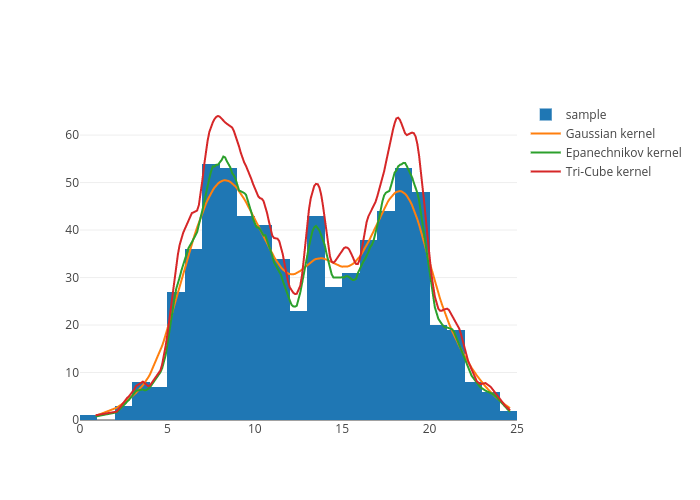
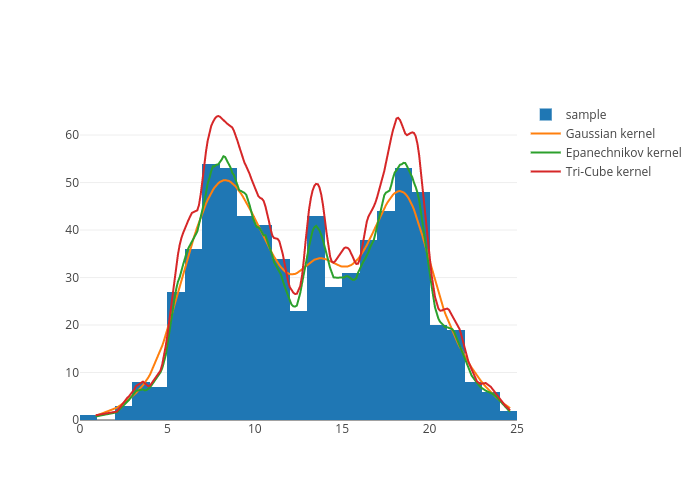
fixed subsumpling

diff --git a/Lab1/Tools/params_estimation.py b/Lab1/Tools/params_estimation.py
@@ -2,12 +2,22 @@ from .vis import *
 from .stats import *
 import math
 import copy
+import random
 
 
-def normal_PDF(m, s, x):
-
+def normal_distrib(m, s, x):
     return 1/(math.sqrt(2*math.pi)*s)*math.exp(-(x-m)**2/(2*s**2))
 
+
+def log_normal_distrib(m, s, x):
+    1/(x*s*math.sqrt(2*math.pi))*math.exp(-(math.log(x)-m)**2/(2*s**2))
+    return True
+
+
+def weibull_distrib():
+    return True
+
+#def
 
 class Estimator:
 
@@ -16,12 +26,18 @@ class Estimator:
         self.values = sample
 
     # normal distrib
-    def estimate_params(self, num_of_distrib):
+    def divide_subset(self, num_of_distrib):
 
         h = len(self.values)//num_of_distrib
         list_of_samples = []
-        for i in range(0,len(self.values),h):
-            list_of_samples += [self.values[i:i+h]]
+        sample = self.values
+        for i in range(num_of_distrib-1):
+            subs = random.sample(sample, h)
+            list_of_samples += [subs]
+            sample = [i for i in sample if i not in subs]
+        list_of_samples += [sample]
+        #for i in range(0,len(self.values),h):
+         #   list_of_samples += [self.values[i:i+h]]
 
         if len(list_of_samples) > num_of_distrib:
             m = list_of_samples[-1]
@@ -58,7 +74,7 @@ class Estimator:
                     find_max = -1000
                     ind = 0
                     for t in range(k):
-                        elem = normal_PDF(mean[t],standard_dev[t],sam)
+                        elem = normal_distrib(mean[t],standard_dev[t],sam)
                         if elem > find_max:
                             ind = t
                             find_max = elem
@@ -98,7 +114,10 @@ class Estimator:
             names += ['Gaussian'+str(i)]
 
 
-        plot_on_one_graph(self.values, list_of_samples, y_list, 'Samples_divided.html', names)
+        def params_validation():
+            return True
+
+        plot_on_one_graph(self.values, list_of_samples, y_list, 'Samples_divided.png', names)
 
 
 

diff --git a/Lab1/Tools/vis.py b/Lab1/Tools/vis.py
@@ -2,6 +2,7 @@
 
 """
 
+from plotly.plotly import image
 from plotly.offline import download_plotlyjs, plot
 import plotly.graph_objs as go
 import numpy as np
@@ -12,7 +13,8 @@ def plot_histogram(sample, name):
 
     x = np.array(sample)
     data = [go.Histogram(x=x)]
-    plot(data, filename=path_to_figure+name)
+    fig = go.Figure(data=data)
+    image.save_as(fig, filename=path_to_figure+name)
 
     return
 
@@ -25,7 +27,8 @@ def plot_kernel_density(sample, y, name):
         y=y
     )
     data = [trace]
-    plot(data, filename=path_to_figure+name)
+    fig = go.Figure(data=data)
+    image.save_as(fig, filename=path_to_figure+name)
 
 
 def plot_on_one_graph(sample,xx, y, name, kernels):
@@ -42,5 +45,16 @@ def plot_on_one_graph(sample,xx, y, name, kernels):
         )]
     data = [go.Histogram(x=x, name='sample')]
     data += trace_list
-    plot(data, filename=path_to_figure + name)
+    fig = go.Figure(data=data)
+    image.save_as(fig, filename=path_to_figure+name)
 
+def q_q_biplot(sample, theory):
+
+    #x = np.array(sample)
+
+   # trace = go.Scatter(
+    #    x=x,
+     #   y=y
+    #)
+
+    return True

diff --git a/Lab1/Tools/stats.py b/Lab1/Tools/stats.py
@@ -147,15 +147,15 @@ class Distribution:
             y_list1 += [r + sm1]
             y_list2 += [r + sm2]
             y_list3 += [r + sm3]
-        # self.show_kernel_density(y_list1, 'Gaussian_kernel.html')
-        # self.show_kernel_density(y_list2, 'Epanechnikov_kernel.html')
-        # self.show_kernel_density(y_list3, 'Tri-Cube_kernel.html')
+        self.show_kernel_density(y_list1, 'Gaussian_kernel.png')
+        self.show_kernel_density(y_list2, 'Epanechnikov_kernel.png')
+        self.show_kernel_density(y_list3, 'Tri-Cube_kernel.png')
         y_list = [y_list1] + [y_list2] + [y_list3]
         x_list = [self.values] + [self.values] + [self.values]
-        self.show_all(y_list, x_list, 'Combined.html',['Gaussian kernel','Epanechnikov kernel', 'Tri-Cube kernel'])
+        self.show_all(x_list, y_list, 'Combined.png',['Gaussian kernel','Epanechnikov kernel', 'Tri-Cube kernel'])
 
 
-    def show_histogram(self, name = 'distrib_hist.html'):
+    def show_histogram(self, name = 'distrib_hist.png'):
 
         plot_histogram(self.values,name)
 

diff --git a/Lab1/main.py b/Lab1/main.py
@@ -2,15 +2,18 @@
 from Tools import *
 import numpy as np
 import asciitable
+import random
 
 data = asciitable.read('ringwaydata.txt',fill_values=('---',None))
 data = data.filled()
-data.dtype.names = ('year','mm','tmax_deg','tmin_deg','af_days','rain_mm','sun_hours')
+data.dtype.names = ('year', 'mm', 'tmax_deg', 'tmin_deg', 'af_days', 'rain_mm', 'sun_hours')
 max_deg = list(data['tmax_deg'])
 max_deg = [float(x) for x in max_deg if x != 'N/A']
+random.seed(42)
+max_deg = [x+0.01*random.random() for x in max_deg]
 m = Distribution(max_deg)
-#m.show_histogram()
-#m.kernel_density(1)
+m.show_histogram()
+m.kernel_density(1)
 
 est = Estimator(max_deg)
-est.estimate_params(3)
+est.divide_subset(2)
